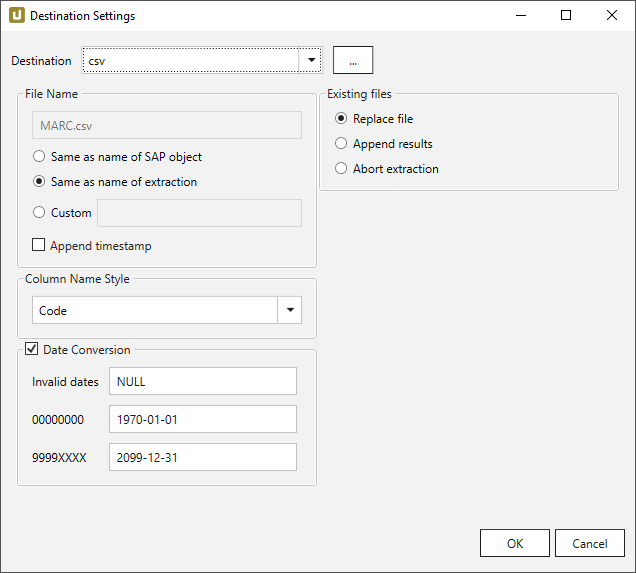
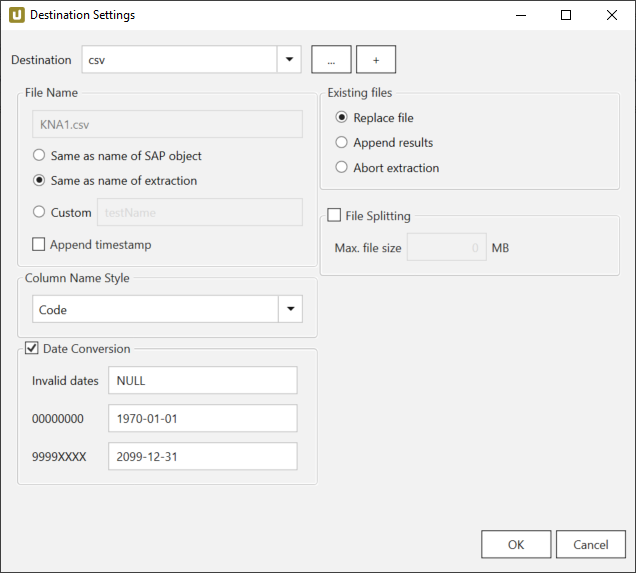
include + de + en + csv flat file

diff --git a/content/_de/xtract-universal/destinationen/snowflake.md b/content/_de/xtract-universal/destinationen/snowflake.md
@@ -94,17 +94,7 @@ Die folgenden Einstellungen können für die Destination definiert werden.
 
 {% include _content/de/xu-specific/destinationen/general/date-conversion.md %}
 
-### File Splitting
-
-**Max file size**<br>
-Definiert, wie groß die im [Output-Verzeichnis](#destination-details) erzeugten csv-Dateien maximal werden können, bevor ein Upload (PUT und COPY-Befehl) nach Snowflake erfolgt. 
-Der Standardwert für die **max file size** ist 50 MB.
-
-Wenn *File Splitting* nicht aktiv ist, wird eine einzige csv-Datei erzeugt und am Ende der Extraktion mit einem einzigen PUT und COPY-Befehl hochgeladen.
-
-{:.box-note}
-**Hinweis:** Die angegeben MB-Größe entspricht nicht der Größe der hochgeladenen Datei, da diese vor dem Upload via gzip gezippt wird. Für mehr Informationen, siehe [Snowflake: Komprimierung bei PUT-Befehl](https://docs.snowflake.com/de/sql-reference/sql/put.html#optional-parameters).
-
+{% include _content/de/xu-specific/destinationen/general/file-splitting.md %}
 
 ### Preparation - SQL Anweisungen
 

diff --git a/content/_de/xtract-universal/destinationen/amazon_aws_s3.md b/content/_de/xtract-universal/destinationen/amazon_aws_s3.md
@@ -165,16 +165,4 @@ Unterordner werden ebenfalls unterstützt und können wie folgt eingegeben werde
 Anstatt eines festen Verzeichnisses, kann der Verzeichnispfad mithilfe von [Skript-Ausdrücken](../fortgeschrittene-techniken/script-ausdruecke#skript-ausdrücke-als-dynamische-ordnerpfade-verwenden) definiert werden. 
 Dabei wird der Verzeichnispfad dynamisch beim Ausführen der Extraktion ermittelt.
 
-### File Splitting
-
-**File Splitting**<br>
-
-Schreibt die Extraktionsdaten einer einzelnen Extraktion in mehrere Dateien im Azure-Storage. 
-Dabei wird an jeden Dateinamen *_part[nnn]* angehägt. 
-
-**Max. file size** <br>
-Der Wert eingestellt in *Max. file size* bestimmt die Maximalgröße der Datei gespeichert im Azure-Storage. 
-
-{: .box-note }
-**Note:** Die Option *Max. file size* wird nicht von gzip-Dateien unterstützt.
-Die Größe von durch gzip-Verfahren komprimierten Dateien kann nicht im Voraus bestimmt werden.
+{% include _content/de/xu-specific/destinationen/general/file-splitting.md %}

diff --git a/content/_de/xtract-universal/destinationen/google-cloud-storage.md b/content/_de/xtract-universal/destinationen/google-cloud-storage.md
@@ -198,16 +198,4 @@ Die Daten werden unkomprimiert übertragen und als csv-Datei abgelegt.
 **gzip**<br>
 Die Daten werden komprimiert übertragen und  als gz-Datei abgelegt. 
 
-### File Splitting
-
-**No Splitting**<br>
-Schreibt Extraktionsdaten einer einzelnen Extraktion in eine einzelne Datei in Google Cloud Storage.
-
-**Split**<br>
-Schreibt Extraktionsdaten einer einzelnen Extraktion in mehrere Dateien in Google Cloud Storage. Jeder Dateiname wird angehängt durch *_part[nnn]*. <br> Im Falle von csv-Dateien wird die Dateigröße durch den Wert bestimmt, der in *Max. CSV file size* steht.
-
-**Max. CSV file size** <br>
-Maximale Größe einer im Google Cloud Storage-Konto gespeicherten csv-Datei. 
-
-{: .box-note }
-**Hinweis:** Die Option *Max. CSV file size* gilt nicht für gzip-Dateien. Die Größe einer gezippten Datei kann nicht im Voraus bestimmt werden.
+{% include _content/de/xu-specific/destinationen/general/file-splitting.md %}

diff --git a/content/_en/xtract-universal/destinations/google-cloud-storage.md b/content/_en/xtract-universal/destinations/google-cloud-storage.md
@@ -204,16 +204,4 @@ The data is transferred uncompressed and stored as a csv file.
 **gzip**<br>
 The data is transferred compressed and stored as a gz file. 
 
-### File Splitting
-
-**No Splitting**<br>
-Writes extraction data of a single extraction to a single file in Google Cloud Storage.
-
-**Split**<br>
-Writes extraction data of a single extraction to multiple files in Google Cloud Storage. Each filename is appended by *_part[nnn]*. In case of .csv files, the file size is determined by the value set in *Max. CSV file size*.
-
-**Max. CSV file size** <br>
-Maximum size of a .csv file stored in the Google Cloud Storage account. 
-
-{: .box-note }
-**Note:** The option *Max. CSV file size* does not apply to gzip files. The size of a gzipped file cannot be determined in advance.
+{% include _content/en/xu-specific/destinations/general/file-splitting.md %}

diff --git a/content/_en/xtract-universal/destinations/amazon-aws-s3.md b/content/_en/xtract-universal/destinations/amazon-aws-s3.md
@@ -164,14 +164,4 @@ Subfolders are also supported and can be entered as follows: `Folder/Subfolder1/
 This field allows entry of [script expressions](../advanced-techniques/script-expressions#using-script-expressions-as-dynamic-folder-paths). 
 This way, a folder path can be dynamically determined at extraction execution.
 
-### File Splitting
-
-**File Splitting**<br>
-
-Writes extraction data of a single extraction to multiple files in Azure storage. Each filename is appended by *_part[nnn]*. 
-
-**Max. file size** <br>
-The value set in *Max. file size* determines the maximum size of the file stored in Azure storage. 
-
-{: .box-note }
-**Note:** The option *Max. file size* does not apply to gzip files. The size of a gzipped file cannot be determined in advance.
+{% include _content/en/xu-specific/destinations/general/file-splitting.md %}

diff --git a/content/_de/xtract-universal/destinationen/csv-flat-file.md b/content/_de/xtract-universal/destinationen/csv-flat-file.md
@@ -70,3 +70,17 @@ Die folgenden Einstellungen können für die Destination definiert werden.
 **Replace file**: eine vorhandene Zieldatei wird überschrieben. <br>
 **Append results**: Daten werden an eine bereits bestehende Zieldatei angehängt. <br>
 **Abort extraction**: Der Prozess wird abgebrochen, falls eine Zeildatei bereits existiert.   
+
+### File Splitting
+
+**File Splitting**<br>
+
+Schreibt die Extraktionsdaten einer einzelnen Extraktion in mehrere Dateien. 
+Dabei wird an jeden Dateinamen *_part[nnn]* angehägt. 
+
+**Max. file size** <br>
+Geben Sie die Maximalgröße der einzelnen Dateien ein, die abgelegt werden sollen. 
+
+{: .box-note }
+**Note:** Die Option *Max. file size* wird nicht von gzip-Dateien unterstützt.
+Die Größe von durch gzip-Verfahren komprimierten Dateien kann nicht im Voraus bestimmt werden.

diff --git a/content/_de/xtract-universal/destinationen/azure-storage.md b/content/_de/xtract-universal/destinationen/azure-storage.md
@@ -245,20 +245,7 @@ Die Daten werden unkomprimiert übertragen und als csv-Datei abgelegt.
 **gzip**<br>
 Die Daten werden komprimiert übertragen und  als gz-Datei abgelegt. 
 
-### File Splitting
-
-**File Splitting**<br>
-
-Schreibt die Extraktionsdaten einer einzelnen Extraktion in mehrere Dateien im Azure-Storage. 
-Dabei wird an jeden Dateinamen *_part[nnn]* angehägt. 
-
-**Max. file size** <br>
-Der Wert eingestellt in *Max. file size* bestimmt die Maximalgröße der Datei gespeichert im Azure-Storage. 
-
-{: .box-note }
-**Note:** Die Option *Max. file size* wird nicht von gzip-Dateien unterstützt.
-Die Größe von durch gzip-Verfahren komprimierten Dateien kann nicht im Voraus bestimmt werden.
-
+{% include _content/de/xu-specific/destinationen/general/file-splitting.md %}
 
 ****
 ## Weiterführende Links

diff --git a/content/_en/xtract-universal/destinations/snowflake.md b/content/_en/xtract-universal/destinations/snowflake.md
@@ -94,17 +94,7 @@ The following settings can be defined for the destination:
 
 {% include _content/en/xu-specific/destinations/general/date-conversion.md %}
 
-### File Splitting
-
-**Max file size**<br>
-Defines the maximum size of the local csv file in the [Output Directory](#destination-details), before it is uploaded to snowflake via PUT and COPY command. 
-The default value for **max file size** is 50 MB.
-
-If *File Splitting* is not active, a single csv file is created and uploaded via a PUT and COPY command.
-
-{:.box-note}
-**Note:** The value for **Max file size** does not equal the size of the uploaded file, because the data is zipped via gzip before upload.
-
+{% include _content/en/xu-specific/destinations/general/file-splitting.md %}
 
 ### Preparation - SQL Commands
 

diff --git a/content/_en/xtract-universal/destinations/csv-flat-file.md b/content/_en/xtract-universal/destinations/csv-flat-file.md
@@ -68,3 +68,16 @@ The following settings can be defined for the destination:
 **Replace file**: The export process overwrites existing files.<br>
 **Append results**: The export process appends new data to an already existing file.<br>
 **Abort extraction**: The process is aborted, if the file already exists.  
+
+### File Splitting
+
+**File Splitting**<br>
+Writes extraction data of a single extraction to multiple files. 
+Each filename is appended by *_part[nnn]*. 
+
+**Max. file size** <br>
+The value set in *Max. file size* determines the maximum size of each file. 
+
+{: .box-note }
+**Note:** The option *Max. file size* does not apply to gzip files. 
+The size of a gzipped file cannot be determined in advance.

diff --git a/content/_en/xtract-universal/destinations/azure-storage.md b/content/_en/xtract-universal/destinations/azure-storage.md
@@ -252,18 +252,7 @@ The data is transferred uncompressed and stored as a csv file.
 **gzip**<br>
 The data is transferred compressed and stored as a gz file. 
 
-### File Splitting
-
-**File Splitting**<br>
-
-Writes extraction data of a single extraction to multiple files in Azure storage. Each filename is appended by *_part[nnn]*. 
-
-**Max. file size** <br>
-The value set in *Max. file size* determines the maximum size of the file stored in Azure storage. 
-
-{: .box-note }
-**Note:** The option *Max. file size* does not apply to gzip files. The size of a gzipped file cannot be determined in advance.
-
+{% include _content/en/xu-specific/destinations/general/file-splitting.md %}
 
 *****
 ## Related Links

diff --git a/_includes/_content/de/xu-specific/destinationen/general/file-splitting.md b/_includes/_content/de/xu-specific/destinationen/general/file-splitting.md
@@ -1,0 +1,14 @@
+
+### File Splitting
+
+**File Splitting**<br>
+
+Schreibt die Extraktionsdaten einer einzelnen Extraktion in mehrere Dateien im die Cloud. 
+Dabei wird an jeden Dateinamen *_part[nnn]* angehägt. 
+
+**Max. file size** <br>
+Geben Sie die Maximalgröße der Dateien ein, die hochgeladen werden sollen. 
+
+{: .box-note }
+**Note:** Die Option *Max. file size* wird nicht von gzip-Dateien unterstützt.
+Die Größe von durch gzip-Verfahren komprimierten Dateien kann nicht im Voraus bestimmt werden.

diff --git a/_includes/_content/en/xu-specific/destinations/general/file-splitting.md b/_includes/_content/en/xu-specific/destinations/general/file-splitting.md
@@ -1,0 +1,13 @@
+
+### File Splitting
+
+**File Splitting**<br>
+Writes extraction data of a single extraction to multiple files in the cloud. 
+Each filename is appended by *_part[nnn]*. 
+
+**Max. file size** <br>
+The value set in *Max. file size* determines the maximum size of each stored file. 
+
+{: .box-note }
+**Note:** The option *Max. file size* does not apply to gzip files. 
+The size of a gzipped file cannot be determined in advance.
